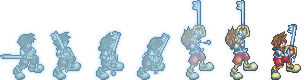
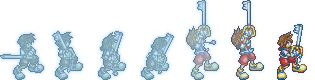
Updated Animations
Fixed up some Final World Sora animations. Fixed a bug with animations being changed.

diff --git a/public/main.js b/public/main.js
@@ -16,7 +16,7 @@ let currentSwitch;
 let dt = 0;
 let lastUpdate;
 let animQueue = [];
-let anim = { "completed": true };
+let anim = { "interruptable": true, "completed": true };
 let canvas;
 let ctx;
 
@@ -290,17 +290,9 @@ const updateSprites = () => {
   dt = Date.now() - lastUpdate; 
   lastUpdate = Date.now();
 
-  if (anim.completed && animQueue.length > 0) {
-    if (anim.interruptable || (anim.currentFrame >= anim.frames && !anim.reverse) || (anim.currentFrame < 0 && anim.reverse)) {
-    // Get our new animation
-    console.dir('changing animation');
-    anim = animQueue.shift();
-
-    // Set the currentFrame to be the starting frame
-    // 0 if playing normally, last frame if playing in reverse
-    anim.currentFrame = anim.reverse ? anim.frames - 1 : 0;
-    console.dir(anim);
-    }
+  if (anim.completed && animQueue.length > 0 && anim.interruptable) {
+    console.dir('first change anim');
+    changeAnimation();
   }
 
   let prevFrame = anim.currentFrame || -1;
@@ -328,7 +320,7 @@ const updateSprites = () => {
     ctx.clearRect(0, 0, canvas.width, canvas.height);
 
     if (anim.hasOwnProperty('source')) {
-      ctx.drawImage(anim.source.img, anim.currentFrame * anim.frameSize.w, 0, anim.frameSize.w, anim.frameSize.h, anim.x, anim.y, anim.frameSize.w, anim.frameSize.h);
+      ctx.drawImage(anim.source.img, anim.currentFrame * anim.frameSize.w + anim.padding * anim.currentFrame, 0, anim.frameSize.w, anim.frameSize.h, anim.x, anim.y, anim.frameSize.w, anim.frameSize.h);
     }
   }
 
@@ -339,10 +331,17 @@ const updateSprites = () => {
 const completeAnimation = (anim) => {
   anim.completed = true;
   if (!anim.loop) {
+    if (animQueue.length > 0) {
+      changeAnimation();
+    }
     requestAnimationFrame(updateSprites);
     return;
   } 
   anim.currentFrame = anim.reverse ? anim.frames - 1 : 0;
+
+  if (animQueue.length > 0) {
+    changeAnimation();
+  }
 };
 
 // Adds animations from an action to the animation queue
@@ -353,17 +352,21 @@ const addAnimations = (anims, action) => {
     let addAnim = activeCharacter.animations[a.animation];
     console.dir(`characters/${activeCharacter.name.toLowerCase()}/${a.animation}.png`);
     console.dir(addAnim.frameSize);
+    console.dir(addAnim);
+    console.dir(a);
     animQueue.push({
       "source": getImage(a.animation),
       "frameSize": addAnim.frameSize,
       "frames": addAnim.frames,
       "fps": addAnim.fps,
       "fpsTime": 1000 / addAnim.fps,
+      "padding": addAnim.padding || 0,
       "frameTime": 0,
       "currentFrame": 0,
       "action": action,
       "x": addAnim.offset ? (canvas.width / 2) - Math.floor(addAnim.frameSize.w / 2) + addAnim.offset.x : (canvas.width / 2) - Math.floor(addAnim.frameSize.w / 2),
       "y": addAnim.offset ? canvas.height - canvasPadding - addAnim.frameSize.h + addAnim.offset.y : canvas.height - canvasPadding - addAnim.frameSize.h,
+      "interruptable": addAnim.interruptable,
       "loop": a.loop,
       "reverse": a.reverse
     });
@@ -376,6 +379,17 @@ const removeAnimations = (action) => {
  animQueue = animQueue.filter(anim => {
   return anim.action != action;
  });
+};
+
+const changeAnimation = () => {
+  // Get our new animation
+  console.dir('changing animation');
+  anim = animQueue.shift();
+
+  // Set the currentFrame to be the starting frame
+  // 0 if playing normally, last frame if playing in reverse
+  anim.currentFrame = anim.reverse ? anim.frames - 1 : 0;
+  console.dir(anim);
 };
 
 // Switches the active character
